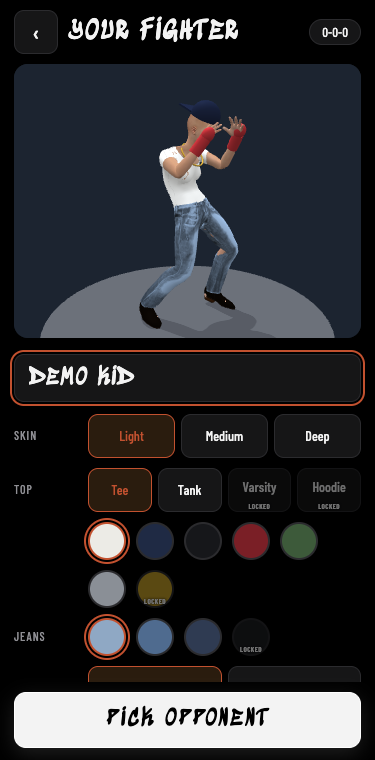
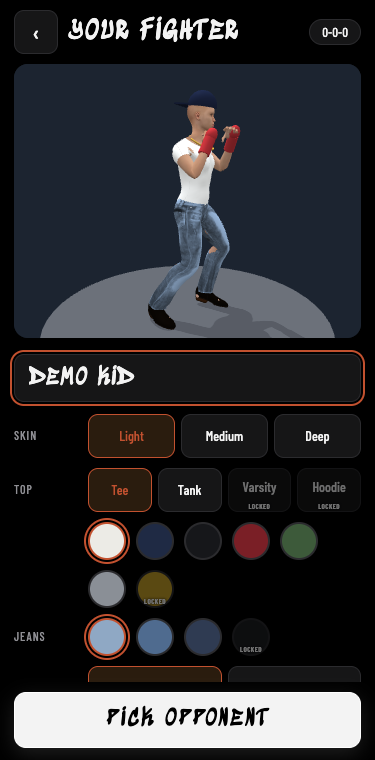
BOX-14 slice 1: straightened rig and boxing stance

Changed region(s): [[0.352, 0.1211, 0.6747, 0.4539]]

diff --git a/index.html b/index.html
@@ -3,7 +3,7 @@
 <head>
 <meta charset="utf-8">
 <meta name="viewport" content="width=device-width, initial-scale=1, viewport-fit=cover">
-<meta name="theme-color" content="#000">
+<meta name="theme-color" content="#0b0d12">
 <meta name="apple-mobile-web-app-capable" content="yes">
 <title>Bring The Ruckus</title>
 <!--
@@ -145,10 +145,10 @@
 
   /* ── Upgrade ── */
   .points-big { text-align: center; padding: 6px 0 14px; }
-  .points-big b { display: block; font: 700 68px/1 var(--body); color: var(--accent); }
+  .points-big b { display: block; font: 400 64px/1 var(--display); color: var(--accent); }
   .urow { display: grid; grid-template-columns: 1fr auto; gap: 4px 12px; align-items: center; padding: 12px 0; border-bottom: 1px solid var(--line); }
   .urow .nm { font: 400 20px var(--display); letter-spacing: .08em; text-transform: uppercase; }
-  .urow .nm span { font: 700 20px var(--body); color: var(--accent); margin-left: 8px; }
+  .urow .nm span { font: 600 18px var(--mono); color: var(--accent); margin-left: 8px; }
   .urow .fx { grid-column: 1; font-size: 12px; color: var(--muted); }
   .urow .bar { grid-column: 1; }
   .urow .btns { grid-column: 2; grid-row: 1 / span 3; display: flex; gap: 8px; }
@@ -178,7 +178,7 @@
   .side { display: grid; gap: 4px; }
   .side.blue { text-align: right; }
   .side .nm { font: 400 19px/1 var(--display); letter-spacing: .07em; text-transform: uppercase; text-shadow: 0 2px 4px #000; white-space: nowrap; overflow: hidden; text-overflow: ellipsis; }
-  .side.red .nm { color: #f3f3f3; } .side.blue .nm { color: #b4b4b9; }
+  .side.red .nm { color: #ff7478; } .side.blue .nm { color: #6fb0ff; }
   .vit { display: flex; align-items: center; gap: 7px; }
   .side.blue .vit { flex-direction: row-reverse; }
   .vit .bars { flex: 1; min-width: 0; display: grid; gap: 4px; }
@@ -193,7 +193,7 @@
   .dmg-grid .who { font: 400 15px var(--display); letter-spacing: .1em; text-transform: uppercase; margin-bottom: 6px; }
   .dmg-fig { display: flex; align-items: center; justify-content: center; gap: 12px; }
   .dmg-list { display: grid; gap: 5px; text-align: left; font-size: 12.5px; }
-  .dmg-list b { font: 700 20px/1 var(--body); color: var(--accent); margin-right: 4px; }
+  .dmg-list b { font: 400 17px/1 var(--display); color: var(--accent); margin-right: 4px; }
   .dmg-list span { display: block; font-size: 10.5px; letter-spacing: .1em; text-transform: uppercase; color: var(--muted); }
   .dmg-note { margin: 10px 0 0; font-size: 11.5px; color: var(--muted); }
   .meter { position: relative; height: 12px; background: rgba(0,0,0,.6); border: 1px solid rgba(255,255,255,.25); border-radius: 3px; overflow: hidden; transform: skewX(-14deg); }
@@ -228,20 +228,20 @@
   #s-result .scroll { padding-top: calc(var(--top) + 18px); text-align: center; }
   .verdict { font: 400 clamp(56px, 18vw, 92px)/.95 var(--display); letter-spacing: .04em; text-transform: uppercase; margin: 0; opacity: 0; animation: pop .55s cubic-bezier(.2,1.4,.4,1) forwards; animation-delay: var(--vd, 0s); }
   .verdict.w { color: var(--accent-2); text-shadow: 0 0 30px rgba(194,81,47,.5), 3px 4px 0 #000; }
-  .verdict.l { color: var(--accent); text-shadow: 3px 4px 0 #000; } .verdict.d { color: #c7d0de; text-shadow: 3px 4px 0 #000; }
+  .verdict.l { color: #ff6b6b; text-shadow: 3px 4px 0 #000; } .verdict.d { color: #c7d0de; text-shadow: 3px 4px 0 #000; }
   .method { font: 600 14px var(--body); letter-spacing: .16em; text-transform: uppercase; color: var(--muted); margin: 6px 0 16px; opacity: 0; animation: fade .4s forwards; animation-delay: var(--vd, 0s); }
   @keyframes pop { from { opacity: 0; transform: scale(1.7) rotate(-4deg); } to { opacity: 1; transform: none; } }
   @keyframes fade { to { opacity: 1; } }
   .cardtbl { width: 100%; border-collapse: collapse; font: 600 16px var(--mono); }
   .cardtbl th { font: 600 11px var(--body); letter-spacing: .1em; text-transform: uppercase; color: var(--muted); padding-bottom: 6px; }
-  .cardtbl th.r { color: #f3f3f3; } .cardtbl th.b { color: #a4a4a9; }
+  .cardtbl th.r { color: #ff7478; } .cardtbl th.b { color: #6fb0ff; }
   .cardtbl td { padding: 6px 0; border-top: 1px solid var(--line); opacity: 0; animation: fade .35s forwards; animation-delay: calc(var(--i) * .55s); }
   .cardtbl tr.tot td { font-size: 20px; border-top: 2px solid var(--muted); animation-delay: calc(var(--i) * .55s + .3s); }
   .stat2 { display: grid; grid-template-columns: 1fr auto 1fr; gap: 6px 10px; font-size: 14px; align-items: center; }
   .stat2 b { font: 600 15px var(--mono); } .stat2 span:nth-child(3n+2) { color: var(--muted); font-size: 11px; letter-spacing: .1em; text-transform: uppercase; }
   .stat2 span:nth-child(3n+1) { text-align: right; } .stat2 span:nth-child(3n) { text-align: left; }
   .reward { display: flex; justify-content: space-around; text-align: center; }
-  .reward b { display: block; font: 700 38px/1 var(--body); color: var(--accent); }
+  .reward b { display: block; font: 400 34px/1 var(--display); color: var(--accent); }
   .reward span { font-size: 11px; letter-spacing: .1em; text-transform: uppercase; color: var(--muted); }
   .unlock { background: linear-gradient(90deg, #2a1c0e, #1c222e); border: 1px solid var(--accent); border-radius: 12px; padding: 10px 14px; margin-bottom: 8px; text-align: left; }
   .unlock b { color: var(--accent); font: 400 13px var(--display); letter-spacing: .12em; text-transform: uppercase; display: block; }
@@ -249,17 +249,17 @@
 
   /* ── Career ── */
   .stat-line { display: flex; justify-content: space-between; gap: 8px; text-align: center; }
-  .stat-line b { display: block; font: 700 30px/1 var(--body); color: var(--accent); }
+  .stat-line b { display: block; font: 400 26px/1 var(--display); color: var(--accent); }
   .stat-line span { font-size: 10.5px; letter-spacing: .1em; text-transform: uppercase; color: var(--muted); }
   .energy { height: 10px; border-radius: 5px; background: var(--panel-2); overflow: hidden; margin: 12px 0 6px; }
-  .energy i { display: block; height: 100%; background: linear-gradient(90deg, #8f8f94, #f3f3f3); }
+  .energy i { display: block; height: 100%; background: linear-gradient(90deg, #d9a12b, #3fb950); }
   .cond { font-size: 12.5px; color: var(--muted); } .cond.bad { color: #ff9a7a; }
   .week-h { display: flex; justify-content: space-between; align-items: baseline; margin: 16px 0 8px; font: 400 15px var(--display); letter-spacing: .1em; text-transform: uppercase; color: var(--muted); }
   .offer { display: grid; grid-template-columns: 64px 1fr auto; gap: 12px; align-items: center; width: 100%; text-align: left; padding: 10px; margin-bottom: 10px; background: var(--panel); border: 2px solid var(--line); border-radius: 14px; min-height: 84px; }
   .offer .avatar { width: 64px; height: 64px; font-size: 32px; }
   .offer .nm { font: 400 20px/1.1 var(--display); letter-spacing: .06em; text-transform: uppercase; }
   .offer .meta { font-size: 12px; color: var(--muted); }
-  .offer .purse { font: 700 26px var(--body); color: var(--accent-2); text-align: right; }
+  .offer .purse { font: 400 22px var(--display); color: var(--accent-2); text-align: right; }
   .offer.rival { border-color: var(--red); }
   .tagpill { display: inline-block; font: 700 9px var(--body); letter-spacing: .1em; padding: 2px 7px; border-radius: 999px; background: var(--red); color: #fff; margin-left: 6px; vertical-align: middle; text-transform: uppercase; }
   .tagpill.gold { background: var(--accent); color: #1b1004; }
@@ -276,9 +276,9 @@
   .poster .avatar { width: min(34vw, 130px); height: min(34vw, 130px); margin: 0 auto 8px; font-size: 56px; }
   .poster .nm { font: 400 22px/1.1 var(--display); letter-spacing: .05em; text-transform: uppercase; }
   .poster .rec { font: 600 13px var(--mono); color: var(--muted); }
-  .poster .purse-big { font: 700 64px/1 var(--body); color: var(--accent-2); margin: 18px 0 2px; }
+  .poster .purse-big { font: 400 54px/1 var(--display); color: var(--accent-2); margin: 18px 0 2px; }
   .drill-bar { position: relative; height: 64px; border-radius: 12px; border: 2px solid var(--line); overflow: hidden; margin: 14px 0;
-    background: linear-gradient(90deg, #2b1a1a 0, #2b1a1a 15%, #3a3417 15%, #3a3417 32.5%, #3c3c40 32.5%, #3c3c40 44%, #d9a12b 44%, #d9a12b 56%, #3c3c40 56%, #3c3c40 67.5%, #3a3417 67.5%, #3a3417 85%, #2b1a1a 85%); }
+    background: linear-gradient(90deg, #2b1a1a 0, #2b1a1a 15%, #3a3417 15%, #3a3417 32.5%, #6b5a1d 32.5%, #6b5a1d 44%, #d9a12b 44%, #d9a12b 56%, #6b5a1d 56%, #6b5a1d 67.5%, #3a3417 67.5%, #3a3417 85%, #2b1a1a 85%); }
   .drill-bar .mk { position: absolute; top: 0; bottom: 0; width: 6px; margin-left: -3px; background: #fff; box-shadow: 0 0 10px #fff; }
   .bag { width: 74px; height: 130px; margin: 6px auto 0; border-radius: 22px; background: linear-gradient(90deg, #5b1d1d, #a73535 45%, #5b1d1d); border: 2px solid #2a0d0d; position: relative; transform-origin: 50% -30px; }
   .bag::before { content: ''; position: absolute; left: 50%; top: -36px; width: 3px; height: 36px; background: #777; }
@@ -847,13 +847,13 @@ $('camp-reset').onclick = () => { state.pending = null; renderUpgrade(); };
 // ─── Opponents ──────────────────────────────────────────────────────────────
 
 const ARCHETYPES = {
-  slugger:    { name: 'Iron Mauler',   style: 'Heavy hands, slow feet. One shot changes the night.', stats: { speed: 38, power: 82, stamina: 55, ringIQ: 42 }, tint: '#4a4a4e',
+  slugger:    { name: 'Iron Mauler',   style: 'Heavy hands, slow feet. One shot changes the night.', stats: { speed: 38, power: 82, stamina: 55, ringIQ: 42 }, tint: '#6b1d22',
     look: { topStyle: 'tank', top: '#16171a', jeans: '#1d1e22', boots: 'timbs', cap: null, chain: true, wraps: '#16171a', skin: 'deep' } },
-  speedster:  { name: 'Quicksilver',   style: 'Flurries from every angle. Hard to catch.', stats: { speed: 84, power: 40, stamina: 60, ringIQ: 55 }, tint: '#3c3c40',
+  speedster:  { name: 'Quicksilver',   style: 'Flurries from every angle. Hard to catch.', stats: { speed: 84, power: 40, stamina: 60, ringIQ: 55 }, tint: '#6b5a1d',
     look: { topStyle: 'tee', top: '#c9a227', jeans: '#2f3b52', boots: 'sneakers', cap: '#16171a', capBackwards: false, chain: false, wraps: '#ecebe6', skin: 'medium' } },
-  technician: { name: 'The Professor', style: 'Reads you like a book and counters everything.', stats: { speed: 58, power: 50, stamina: 52, ringIQ: 82 }, tint: '#58585d',
+  technician: { name: 'The Professor', style: 'Reads you like a book and counters everything.', stats: { speed: 58, power: 50, stamina: 52, ringIQ: 82 }, tint: '#1d3a6b',
     look: { topStyle: 'hoodie', top: '#8a8f96', jeans: '#4f6b8f', boots: 'sneakers', cap: null, chain: false, wraps: '#2f6fd0', skin: 'light' } },
-  grinder:    { name: 'Diesel Dean',   style: 'Never tires. Wears you down in the late rounds.', stats: { speed: 48, power: 55, stamina: 85, ringIQ: 45 }, tint: '#2f2f33',
+  grinder:    { name: 'Diesel Dean',   style: 'Never tires. Wears you down in the late rounds.', stats: { speed: 48, power: 55, stamina: 85, ringIQ: 45 }, tint: '#1d5a3a',
     look: { topStyle: 'varsity', top: '#3d5a3a', sleeve: '#c9c6bf', jeans: '#2f3b52', boots: 'timbs', cap: '#3d5a3a', capBackwards: true, chain: true, wraps: '#d9a12b', skin: 'medium' } },
 };
 const opponentOf = (key) => (key === 'mirror'
@@ -869,7 +869,7 @@ function renderOpponents() {
       bar.firstChild.style.width = `${o.stats[s]}%`;
       return el('div', { className: 'mini' }, el('span', { textContent: STAT_LABEL[s] }), bar);
     });
-    const avatar = el('div', { className: 'avatar', style: `background:linear-gradient(160deg, ${o.tint}, #000)` }, o.name[0]);
+    const avatar = el('div', { className: 'avatar', style: `background:linear-gradient(160deg, ${o.tint}, #0b0d12)` }, o.name[0]);
     return el('button', { className: 'opp', type: 'button', ariaPressed: String(state.opp === k), onclick: () => { state.opp = k; sfx.click(); renderOpponents(); } },
       avatar,
       el('div', {}, el('div', { className: 'nm', textContent: o.name }), el('div', { className: 'style', textContent: o.style }), ...mini));
@@ -1167,8 +1167,8 @@ function damageCard(r) {
 // ─── Career ─────────────────────────────────────────────────────────────────
 
 const money = (n) => `$${n.toLocaleString('en-US')}`;
-const portrait = (o) => el('div', { className: 'avatar', style: `background:linear-gradient(160deg, ${LOOK_TINT[o.arch] ?? '#4a4a55'}, #000)` }, o.name[0]);
-const LOOK_TINT = { slugger: '#4a4a4e', speedster: '#3c3c40', technician: '#58585d', grinder: '#2f2f33' };
+const portrait = (o) => el('div', { className: 'avatar', style: `background:linear-gradient(160deg, ${LOOK_TINT[o.arch] ?? '#4a4a55'}, #0b0d12)` }, o.name[0]);
+const LOOK_TINT = { slugger: '#6b1d22', speedster: '#6b5a1d', technician: '#1d3a6b', grinder: '#1d5a3a' };
 const saveCareer = () => db.saveFighter(state.fighter).then(() => { state.hasSaved = true; });
 
 function offerButton(o) {
@@ -1241,7 +1241,7 @@ function renderCard() {
     el('div', { className: 'tier', textContent: `${o.tierName}${o.title ? ' · title fight' : ''}${o.rival ? ' · rematch' : ''}` }),
     el('div', { className: 'venue', textContent: `${o.venue} · ${o.rounds} round${o.rounds > 1 ? 's' : ''}` }),
     el('div', { className: 'vs' },
-      el('div', {}, el('div', { className: 'avatar', style: 'background:linear-gradient(160deg,#3a2220,#000)' }, state.fighter.name[0]), el('div', { className: 'nm', textContent: state.fighter.name }), el('div', { className: 'rec', textContent: recordText(state.fighter.record) })),
+      el('div', {}, el('div', { className: 'avatar', style: 'background:linear-gradient(160deg,#6b1d22,#0b0d12)' }, state.fighter.name[0]), el('div', { className: 'nm', textContent: state.fighter.name }), el('div', { className: 'rec', textContent: recordText(state.fighter.record) })),
       el('b', { textContent: 'VS' }),
       el('div', {}, portrait(o), el('div', { className: 'nm', textContent: o.name }), el('div', { className: 'rec', textContent: `${o.record.w}-${o.record.l}-0` }))),
     el('div', { className: 'purse-big', textContent: money(o.purse) }),

diff --git a/boxer-model.js b/boxer-model.js
@@ -93,6 +93,40 @@ export class ModelRig {
     this.clipNames = Object.keys(this.clips);
     this._q = new B.Quaternion(); this._p = new B.Vector3();
     this.lift = 0;
+    this.initFists();
+  }
+
+  /**
+   * The person's hands are open, flat and spread. Finds, for each finger, the local axis that closes it toward the palm
+   * (the bone rolls differ, so each is tried) and keeps a curl rotation per bone that applyLayers adds, so both hands are fists.
+   */
+  initFists() {
+    const B = this.B;
+    this.curl = {};
+    this.root.computeWorldMatrix(true);
+    for (const n of Object.values(this.bones)) n.computeWorldMatrix(true);
+    const axes = [[1, 0, 0], [-1, 0, 0], [0, 1, 0], [0, -1, 0], [0, 0, 1], [0, 0, -1]];
+    for (const s of ['l', 'r']) {
+      const hand = this.bones[`hand_${s}`];
+      if (!hand) continue;
+      for (const [finger, bend] of [['index', [1.15, 1.5, 1.1]], ['middle', [1.15, 1.5, 1.1]], ['ring', [1.2, 1.5, 1.1]], ['pinky', [1.25, 1.5, 1.1]], ['thumb', [0.35, 0.55, 0.55]]]) {
+        const names = [1, 2, 3].map((i) => `${finger}_0${i}_${s}`);
+        if (!names.every((n) => this.bones[n])) continue;
+        const first = this.bones[names[0]], tip = this.bones[names[2]];
+        let best = null;
+        for (const ax of axes) {
+          const q = B.Quaternion.RotationAxis(new B.Vector3(...ax), 1);
+          const keep = first.rotationQuaternion.clone();
+          first.rotationQuaternion.copyFrom(keep.multiply(q));
+          first.computeWorldMatrix(true); for (const d of first.getDescendants(false)) d.computeWorldMatrix?.(true);
+          const dist = B.Vector3.Distance(tip.getAbsolutePosition(), hand.getAbsolutePosition());
+          first.rotationQuaternion.copyFrom(keep);
+          first.computeWorldMatrix(true); for (const d of first.getDescendants(false)) d.computeWorldMatrix?.(true);
+          if (!best || dist < best.dist) best = { ax, dist };
+        }
+        names.forEach((n, i) => { this.curl[n] = B.Quaternion.RotationAxis(new B.Vector3(...best.ax), bend[i]); });
+      }
+    }
   }
 
   /** Stands the rig at `pos` (ground point) facing unit `forward` (both {x,y,z}). */
@@ -125,6 +159,8 @@ export class ModelRig {
         }
       }
       node.rotationQuaternion.copyFrom(q ?? rest.q);
+      const curl = this.curl[name];
+      if (curl) node.rotationQuaternion.copyFrom((q ?? rest.q).multiply(curl));
       if (this.ownBones) {
         const cr = CLIP_REST[name];
         if (p && cr) node.position.set(rest.p.x + p.x - cr[0], rest.p.y + p.y - cr[1], rest.p.z + p.z - cr[2]);
@@ -181,6 +217,24 @@ export class ModelRig {
     node.rotationQuaternion.copyFrom(rq);
     node.computeWorldMatrix(true);
     for (const n of node.getDescendants(false)) n.computeWorldMatrix?.(true);
+  }
+
+  /**
+   * The clips' torsos are hunched (the jab frame bends the upper spine ~30 deg forward over a back-leaning lower spine).
+   * Turns each spine/neck segment toward an upright boxer's lean (`lean` rad forward from vertical, per segment) by
+   * `w`, keeping each segment's own twist, so the guard and the punches stand straight. `f` is the boxer's forward.
+   */
+  straighten(f, w = 1, lean = SPINE_LEAN) {
+    if (w <= 0) return;
+    const chain = ['pelvis', 'spine_01', 'spine_02', 'spine_03', 'neck_01', 'Head'];
+    for (let i = 0; i < chain.length - 1; i++) {
+      const a = chain[i], b = chain[i + 1];
+      if (!this.bones[a] || !this.bones[b]) continue;
+      const s = this.pos(a), c = this.pos(b), d = sub(c, s), l = len(d);
+      const want = norm(add(mul(UPV, Math.cos(lean[i])), mul(f, Math.sin(lean[i]))));
+      const dir = norm(add(mul(norm(d), 1 - w), mul(want, w)));
+      this.aim(a, b, add(s, mul(dir, l)));
+    }
   }
 
   /** Arm IK: puts the hand of `side` (−1 left, +1 right) at `target`, elbow bending toward `pole` (directions {x,y,z}). */
@@ -241,7 +295,7 @@ const PUNCH_CLIP = {
 const STANCE = { clip: 'Punch_Jab', t: 0 };                       // the jab's first frame is a good orthodox guard
 // Guard hand positions relative to the head bone, in the boxer's own frame (x right, y up, z forward), measured on the
 // stance frame. Relative to the head so the guard follows the body down when a clip crouches.
-const GUARD = { [-1]: { x: -0.13, y: -0.04, z: 0.26 }, [1]: { x: 0.18, y: -0.08, z: 0.1 } };
+const GUARD = { [-1]: { x: -0.11, y: -0.14, z: 0.24 }, [1]: { x: 0.13, y: -0.17, z: 0.08 } };
 // The free hook clip is a deep lunging melee swing; only part of it reads as a boxing hook.
 const CLIP_WEIGHT = { Melee_Hook: 0.5 };
 const HIT_CLIP = { head: 'Hit_Head', body: 'Hit_Chest', big: 'Hit_Knockback' };
@@ -504,7 +558,7 @@ export class ModelBoxer {
     const homes = {}, toes = {}, ankleY = {};
     for (const [s, side] of [['l', -1], ['r', 1]]) {
       const a = inFrame(rig.pos(LEG[side].foot)), b = inFrame(rig.pos(LEG[side].ball));
-      homes[s] = { x: a.x, z: a.z }; toes[s] = sub(b, a); ankleY[s] = a.y;
+      homes[s] = { x: a.x * STANCE_NARROW.x, z: a.z * STANCE_NARROW.z }; toes[s] = sub(b, a); ankleY[s] = a.y;
     }
     this.fw = new Footwork(homes); this.fwToes = toes; this.fwAnkleY = ankleY;
   }
@@ -611,6 +665,7 @@ export class ModelBoxer {
       - (punch?.type === 'body' ? 0.05 * pe : 0);
     rig.place(add(add(add(body, rock), sway), v(0, bob, 0)), f);
     rig.applyLayers(layers);
+    rig.straighten(f, STRAIGHT * (1 - 0.7 * koW));
     this.plantFeet(body, f, me, 1 - (this.fall > 0 || this.knocked ? 1 : 0), dt, pivot);
 
     // ── arm IK on top of the clips ──
@@ -712,9 +767,14 @@ export class ModelBoxer {
 
 const UPV = v(0, 1, 0);
 /** Hips drop this far below the clips' stance so planted legs have slack to reach and a step can land (m). */
-const KNEE_BEND = 0.05;
+const KNEE_BEND = 0.02;
+/** The clips' stance is a wide squat; feet come in toward the body by these factors (shoulder-width, knees only slightly bent). */
+const STANCE_NARROW = { x: 0.78, z: 0.82 };
+/** Forward lean from vertical of pelvis..neck_01 (rad) in the guard, and how fully the clips' torso is pulled to it. */
+const SPINE_LEAN = [0.06, 0.08, 0.1, 0.12, 0.12];
+const STRAIGHT = 1;
 /** Where the cap sits relative to the Head bone (metres along the head frame), tuned by eye. */
-const CAP = { up: 0.13, fwd: 0.01, brim: 0.13 };
+const CAP = { up: 0.105, fwd: 0.01, brim: 0.13 };
 const smooth = (t) => t * t * (3 - 2 * t);
 const lerpV = (a, b, t) => add(a, mul(sub(b, a), t));
 const bez2 = (a, b, c, t) => lerpV(lerpV(a, b, t), lerpV(b, c, t), t);

diff --git a/dev-stance.html b/dev-stance.html
@@ -1,0 +1,37 @@
+<!doctype html>
+<meta charset="utf-8">
+<title>Stance check</title>
+<style>html,body{margin:0;background:#1b222c}canvas{width:100vw;height:100vh;display:block}</style>
+<canvas id="c"></canvas>
+<script type="module">
+// Fixed camera on one boxer in guard: ?cam=front|side|back|three&skin=light|medium|deep&punch=jab|cross|hook|uppercut|body&k=0..1
+import { loadBabylon } from './arena-babylon.js';
+import { loadBoxerAssets, loadGltfLoader, ModelBoxer, PHOTO_OUTFITS } from './boxer-model.js';
+const q = new URLSearchParams(location.search);
+const B = await loadBabylon();
+const engine = new B.Engine(document.getElementById('c'), true, { preserveDrawingBuffer: true }, true);
+const scene = new B.Scene(engine);
+scene.clearColor = new B.Color4(0.11, 0.14, 0.19, 1);
+const hemi = new B.HemisphericLight('fill', new B.Vector3(0, 1, 0), scene);
+hemi.intensity = 1.05; hemi.diffuse = new B.Color3(0.95, 0.97, 1); hemi.groundColor = new B.Color3(0.42, 0.42, 0.42); hemi.specular = new B.Color3(0.05, 0.05, 0.05);
+const key = new B.DirectionalLight('key', new B.Vector3(0.25, -1, 0.35), scene); key.intensity = 0.35;
+const ground = B.MeshBuilder.CreateDisc('g', { radius: 1.5, tessellation: 48 }, scene); ground.rotation.x = Math.PI / 2;
+ground.material = new B.StandardMaterial('gm', scene); ground.material.diffuseColor = new B.Color3(0.32, 0.33, 0.35); ground.material.specularColor = new B.Color3(0, 0, 0);
+const az = { front: Math.PI / 2, side: 0, back: -Math.PI / 2, three: Math.PI / 2 - 0.6 }[q.get('cam') || 'front'];
+// The boxer faces +z; the camera at azimuth PI/2 sits on +z looking back at his face.
+const cam = new B.ArcRotateCamera('cam', az, 1.5, 4.2, new B.Vector3(0, 0.95, 0), scene); cam.fov = 0.42; cam.minZ = 0.1;
+await loadGltfLoader(B);
+const assets = await loadBoxerAssets(B, scene);
+const outfit = { ...PHOTO_OUTFITS.red, skin: q.get('skin') || PHOTO_OUTFITS.red.skin };
+const boxer = new ModelBoxer(B, scene, assets, 'red', { addShadowCaster() {} }, { glove: outfit.wraps, trunks: '#9e1c24', wraps: true, outfit });
+const punch = q.get('punch');
+const ME = { x: 0, y: 0, vx: 0, vy: 0, gasRatio: 1, health: 100, activePunch: punch ? { type: punch, launchTick: 0, arriveTick: 100 } : null };
+const OPP = { x: 0, y: 1.2, vx: 0, vy: 0, gasRatio: 1, health: 100, activePunch: null };
+let n = 0;
+scene.onBeforeRenderObservable.add(() => {
+  boxer.pose(ME, OPP, punch ? Number(q.get('k') || 0.5) * 100 : 0, 0, 1 / 60, 0);
+  if (++n === 5) globalThis.__ready = true;
+});
+engine.runRenderLoop(() => scene.render());
+globalThis.__boxer = boxer; globalThis.__B = B;
+</script>

diff --git a/HANDOFF.md b/HANDOFF.md
@@ -269,6 +269,15 @@ User (2026-10-04) asked for more natural street-style fighting and more moves (h
 `public/boxing/index.html` only (title section, CSS, `restartTitleIntro`, `startTitleFx`, leave transition in the `[data-go]` click handler). Night-court SVG scene (tenements, fence, hoop, lamp glow, two fighter silhouettes) on a slow camera drift, light rays, drifting haze, film grain, vignette, a canvas of embers and dust. Logo lines slam in with a screen shake, then a glint sweeps "RUCKUS" every few seconds. Menu slides in staggered; hover/press micro-animations; the main button reads Play, or Continue once a career exists. Leaving the title zooms the camera, fades the stage and flashes white (380 ms) into the next screen. `prefers-reduced-motion` turns all of it off. Screenshots `qa/title-*.png` (Chromium at 375 px). `npm test` 269 pass, career-e2e passes, no console errors.
 Untested: real phones (grain/blur cost on low-end GPUs), Safari, the music toggle. Fighter silhouettes are static shapes, not a looping fight teaser yet.
 
+## Done (2026-10-04): BOX-14 slice 1, straightened rig and boxing stance (shipped live)
+
+User: the fighters "look weak and crooked" (BOX-14). Before shots showed the Quaternius jab frame we use as the stance on the MPFB person: lower spine leaning back 14 deg under an upper spine bent 31 deg forward (S-bend, head thrown ahead), a wide deep squat, and open hands over the forehead. Not a bone-roll bug: the rest-pose retarget is fine, the clip pose itself is hunched.
+- `boxer-model.js`: `ModelRig.straighten(f, w)` turns pelvis, spine_01-03, neck and head segments toward a small forward lean (`SPINE_LEAN`, 3.5-7 deg) each frame after the clips (each segment keeps its twist; weight eases off during the KO). Stance feet scaled in (`STANCE_NARROW` x 0.78, z 0.82) and hips 3 cm higher (`KNEE_BEND` 0.02) so the knees are slightly bent, not squatting. Guard hands moved down to the cheekbones, elbows in (`GUARD`). `initFists()` finds each finger's curl axis and curls both hands into fists (applied in `applyLayers`). Cap sits 2.5 cm lower.
+- Test: "idle guard stands straight" checks every spine/neck segment is within 10 deg sideways and 25 deg fore/aft, hips and shoulders level, head over the feet, hands at the face, and a cross doesn't fold the torso. `npm test` 271 pass.
+- Tools: `public/boxing/dev-stance.html` + `node scripts/shot-stance.mjs <prefix> --cams=front,side,back,three [--punch=cross --k=0.9]` screenshots one boxer in headless Chromium; `node scripts/stance-check.mjs` prints the angles with no browser. Screenshots `qa/box-14-before-*.png`, `qa/box-14-after-*.png`, `qa/box-14-cross-three.png`.
+- **Untested in a browser by eye**: other punches (hook, uppercut, body) and the hit and KO animations with the new torso, the tired sag, the Look preview framing. Hands are fists with the wraps over them, the thumb still pokes out a little.
+- **Next for BOX-14**: the athletic body (MPFB targets, 3 variants by stats), boxing gear (trunks, gloves, mouthguard). The crowd now comes from the 2D render pipeline (user direction change), so no realtime crowd work here.
+
 ## Next jobs
 
 0. **Play BOX-13 and the career on a phone** and tell me what feels off (see its untested list).
@@ -334,6 +343,3 @@ User style direction applied to the whole UI. Sedgwick Ave Display (graffiti: lo
 ## Done (2026-10-04): damage on screen, BOX-9 first slice (Boxing UI Dev)
 The sim records only `target` ('head'/'body') and `outcome` per punch (the `ZONE` in `physics-engine.js` is the ropes zone), so no sim change: zones are derived from those. Landed head shots -> head, landed body shots -> body, blocked shots -> arms ("Blocked"); slips hit nothing. `flow.js`: `zoneOf`, `emptyDamage`, `recordDamage`, `zoneHeat` (pure, tested). `index.html`: `silhouette()` / `paintSilhouette()`; each fighter's HUD has a small figure beside the bars whose zones tint amber to red and pulse on each hit (listens to `impact`, never writes the sim); the result screen has a "Damage taken" card with a big figure and health points and shots per zone for both fighters. Tally is reset per fight and stored in `state.result.damage`. `npm test` 271 pass; `demo-e2e.mjs` clean (new `qa/game-7b-fight-damage-*.png`, `game-8-result-*.png`).
 - Not built yet from BOX-9: between-rounds stats screen, per-round breakdown, punches by type, AI corner timeline. **Untested**: night HUD by eye, real phone, reduced-motion.
-
-### Style pass follow-up (2026-10-04)
-Eyeballed hub, gym, fight card, corner and result at 375 px (career-e2e screenshots) and fixed leftovers: energy bar, archetype portrait tints, blue/red corner names and table headers now grey/white, all big numbers (purse, money, XP, record, damage) use Barlow Condensed bold instead of the graffiti face. Left as is: damage figure heat colours (functional). Still unchecked: real phone, Safari.
